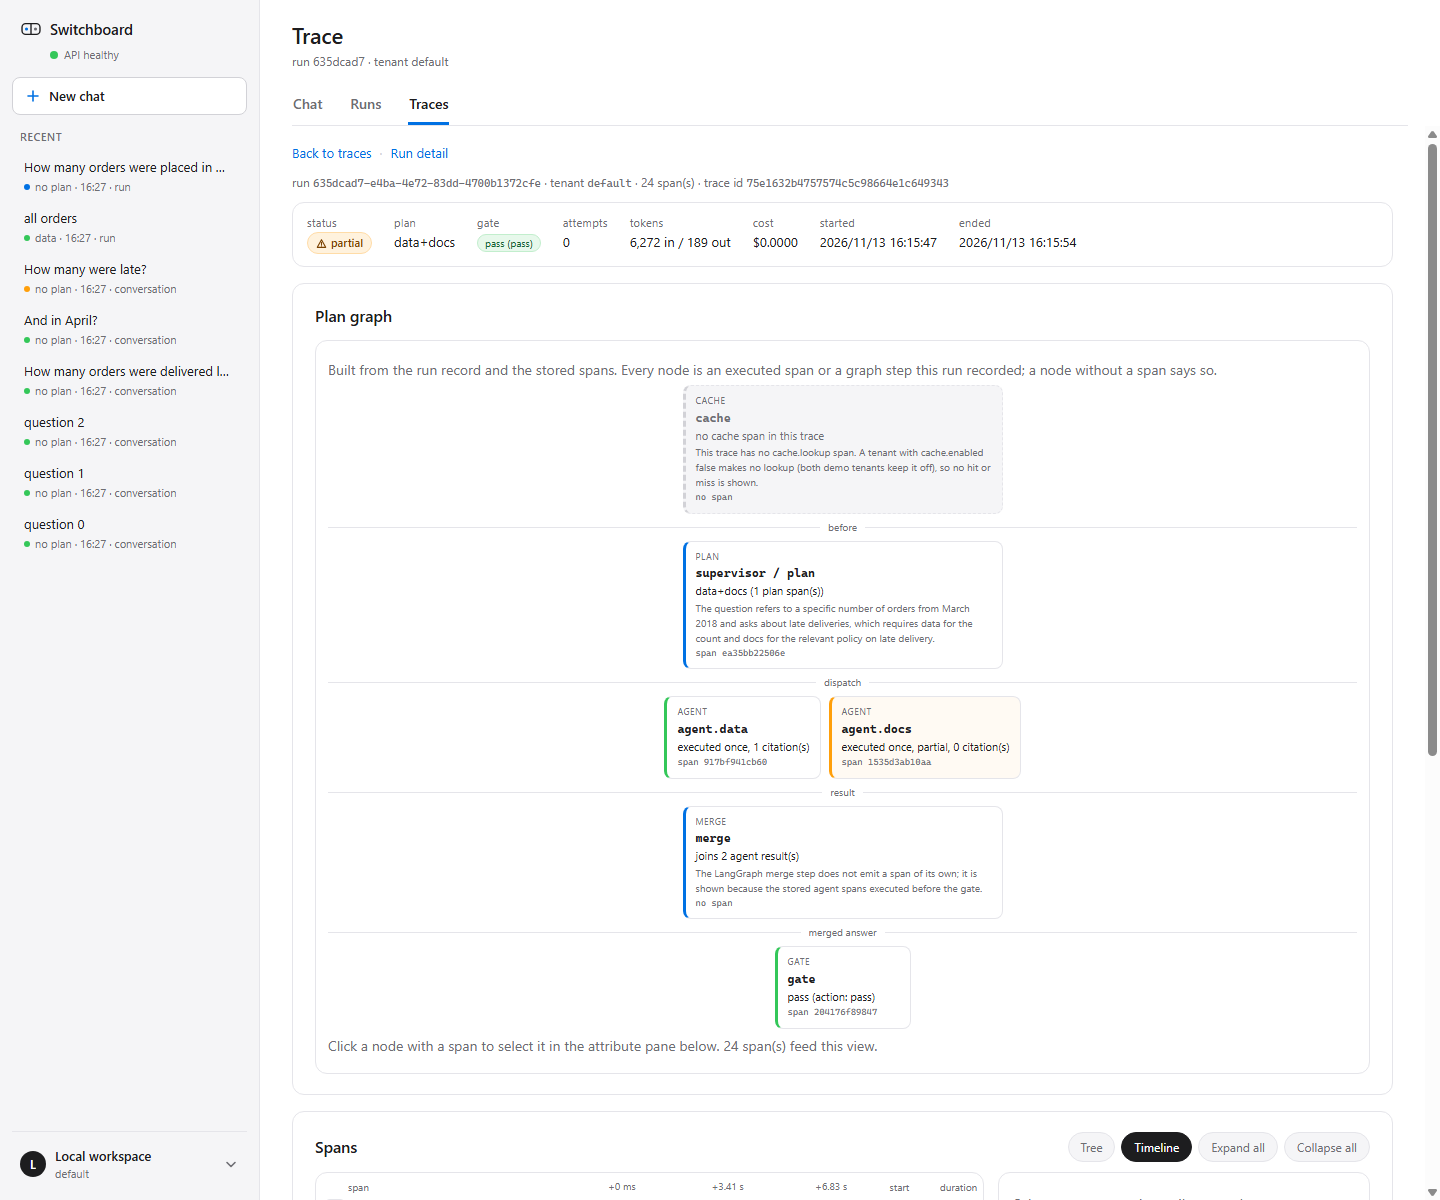
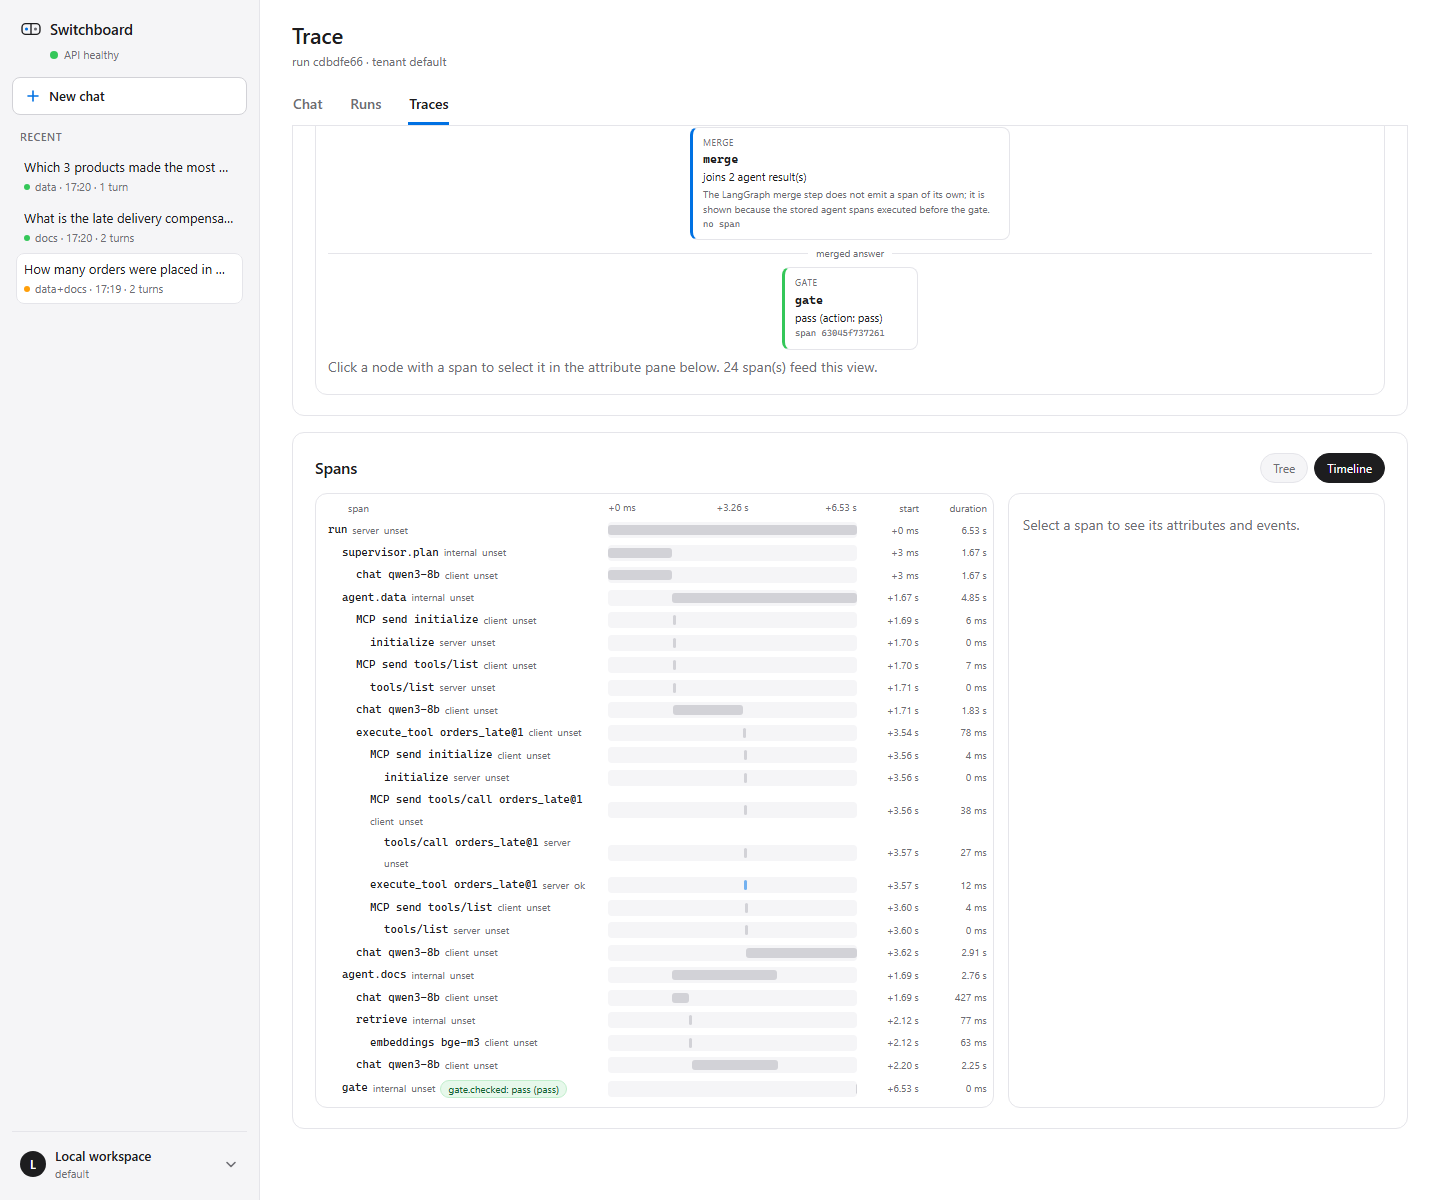
T3.03: draw a real trace tree and simplify the timeline

diff --git a/web/src/pages/TracePage.tsx b/web/src/pages/TracePage.tsx
@@ -3,6 +3,7 @@ import { useEffect, useState } from "react";
 import { errorMessage, getJson, isAbortError } from "../api";
 import type { RunSummary, SpanEvent, TraceResponse, TraceSpan } from "../api";
 import { StatusBadge } from "../components/Badges";
+import { ChevronDownIcon } from "../components/Icons";
 import { TENANTS } from "../config";
 import { formatDateTime, formatDuration, formatTokens, formatValue } from "../format";
 import { runHref, tabHref } from "../routes";
@@ -53,13 +54,29 @@ function SpanToggle({
   return (
     <button
       type="button"
-      className="toggle"
+      className={`toggle${isExpanded ? " is-open" : ""}`}
       onClick={() => onToggle(span.span_id)}
       aria-expanded={isExpanded}
       aria-label={`${isExpanded ? "Collapse" : "Expand"} ${span.name}`}
     >
-      {isExpanded ? "v" : ">"}
+      <ChevronDownIcon className="toggle-icon" />
     </button>
+  );
+}
+
+function TreeGuides({ row }: { row: FlatSpan }) {
+  if (row.depth === 0) {
+    return null;
+  }
+  const parentHasNext = row.guides[row.guides.length - 1] === true;
+  const continueLine = !row.isLast || parentHasNext;
+  return (
+    <span className="tree-guides" aria-hidden="true">
+      {row.guides.slice(0, -1).map((hasLine, index) => (
+        <span key={index} className={`tree-guide${hasLine ? " has-line" : ""}`} />
+      ))}
+      <span className={`tree-branch${continueLine ? " continue" : ""}`} />
+    </span>
   );
 }
 
@@ -78,15 +95,13 @@ function TreeRow({
   onToggle: (spanId: string) => void;
   onSelect: (spanId: string) => void;
 }) {
-  const { span, depth } = row;
+  const { span } = row;
   const barWidth =
     maxDuration > 0 ? Math.max(1, Math.round((span.duration_ms / maxDuration) * 100)) : 0;
   const markers = spanMarkers(span);
   return (
-    <div
-      className={`span-row${selectedId === span.span_id ? " selected" : ""}`}
-      style={{ paddingLeft: `${depth * 18 + 4}px` }}
-    >
+    <div className={`span-row${selectedId === span.span_id ? " selected" : ""}`}>
+      <TreeGuides row={row} />
       <SpanToggle span={span} expanded={expanded} onToggle={onToggle} />
       <button type="button" className="span-select" onClick={() => onSelect(span.span_id)}>
         <span className="span-name">{span.name}</span>
@@ -105,16 +120,12 @@ function TreeRow({
 function TimelineRow({
   row,
   window,
-  expanded,
   selectedId,
-  onToggle,
   onSelect,
 }: {
   row: FlatSpan;
   window: { start: number; total: number };
-  expanded: ReadonlySet<string>;
   selectedId: string | null;
-  onToggle: (spanId: string) => void;
   onSelect: (spanId: string) => void;
 }) {
   const { span, depth } = row;
@@ -133,7 +144,6 @@ function TimelineRow({
       className={`timeline-row${selectedId === span.span_id ? " selected" : ""}`}
     >
       <div className="timeline-label" style={{ paddingLeft: `${depth * 14 + 2}px` }}>
-        <SpanToggle span={span} expanded={expanded} onToggle={onToggle} />
         <button
           type="button"
           className="timeline-select"
@@ -717,12 +727,16 @@ export function TracePage({
                 >
                   Timeline
                 </button>
-                <button type="button" onClick={expandAll}>
-                  Expand all
-                </button>
-                <button type="button" onClick={collapseAll}>
-                  Collapse all
-                </button>
+                {activeView === "tree" ? (
+                  <>
+                    <button type="button" onClick={expandAll}>
+                      Expand all
+                    </button>
+                    <button type="button" onClick={collapseAll}>
+                      Collapse all
+                    </button>
+                  </>
+                ) : null}
               </div>
             </div>
 
@@ -774,24 +788,20 @@ export function TracePage({
                       <span className="timeline-offset">start</span>
                       <span className="timeline-duration">duration</span>
                     </div>
-                    {visibleRows.map((row) => (
+                    {allRows.map((row) => (
                       <TimelineRow
                         key={row.span.span_id}
                         row={row}
                         window={window}
-                        expanded={expanded}
                         selectedId={selectedId}
-                        onToggle={handleToggle}
                         onSelect={selectSpan}
                       />
                     ))}
                   </>
                 )}
-                {visibleRows.length < allRows.length ? (
+                {activeView === "tree" && visibleRows.length < allRows.length ? (
                   <p className="muted timeline-hint">
                     {allRows.length - visibleRows.length} span(s) are hidden by a collapsed parent.
-                    Expand a row to show them; the tree and the timeline share the same expansion
-                    state.
                   </p>
                 ) : null}
               </div>

diff --git a/web/src/styles.css b/web/src/styles.css
@@ -1911,7 +1911,7 @@ dialog::backdrop {
 
 .span-row {
   display: flex;
-  align-items: center;
+  align-items: stretch;
   gap: 2px;
   padding-top: 1px;
   padding-bottom: 1px;
@@ -1926,25 +1926,89 @@ dialog::backdrop {
 
 .toggle,
 .toggle-placeholder {
-  width: 22px;
-  min-width: 22px;
-  height: 22px;
+  width: 18px;
+  min-width: 18px;
   padding: 0;
-  font-size: 11px;
-  line-height: 1;
   background: transparent;
   color: var(--text-secondary);
-  border: 1px solid var(--border);
-  border-radius: 6px;
+  border: 0;
 }
 
 .toggle {
+  display: inline-flex;
+  align-items: center;
+  justify-content: center;
+  align-self: stretch;
+  border-radius: 4px;
   cursor: pointer;
+}
+
+.toggle:hover {
+  background: var(--hover);
+  color: var(--text);
+}
+
+.toggle-icon {
+  width: 13px;
+  height: 13px;
+  transform: rotate(-90deg);
+  transition: transform 120ms ease;
+}
+
+.toggle.is-open .toggle-icon {
+  transform: rotate(0deg);
 }
 
 .toggle-placeholder {
   display: inline-block;
-  border-color: transparent;
+  align-self: stretch;
+}
+
+/* A real tree: one column per ancestor, a vertical line while that ancestor
+   has a later sibling, and an elbow into the current row. */
+.tree-guides {
+  display: flex;
+  flex: none;
+  align-self: stretch;
+}
+
+.tree-guide,
+.tree-branch {
+  position: relative;
+  width: 18px;
+  min-width: 18px;
+  align-self: stretch;
+}
+
+.tree-guide.has-line::before {
+  position: absolute;
+  top: 0;
+  bottom: 0;
+  left: 9px;
+  border-left: 1px solid color-mix(in srgb, var(--text-secondary) 30%, var(--bg));
+  content: "";
+}
+
+.tree-branch::before {
+  position: absolute;
+  top: 0;
+  bottom: 50%;
+  left: 9px;
+  border-left: 1px solid color-mix(in srgb, var(--text-secondary) 30%, var(--bg));
+  content: "";
+}
+
+.tree-branch.continue::before {
+  bottom: 0;
+}
+
+.tree-branch::after {
+  position: absolute;
+  top: 50%;
+  right: 0;
+  left: 9px;
+  border-top: 1px solid color-mix(in srgb, var(--text-secondary) 30%, var(--bg));
+  content: "";
 }
 
 .span-select {

diff --git a/web/src/trace.ts b/web/src/trace.ts
@@ -10,6 +10,12 @@ import type { RunSummary, TraceSpan } from "./api";
 export interface FlatSpan {
   span: TraceSpan;
   depth: number;
+  // True when this span is the last child of its parent. The tree draws a
+  // corner instead of a continuing branch for it.
+  isLast: boolean;
+  // One entry per ancestor level: true when that ancestor has a later sibling,
+  // so the connector line must continue through this row.
+  guides: readonly boolean[];
 }
 
 export interface TraceWindow {
@@ -82,13 +88,14 @@ function text(value: unknown): string | null {
 
 export function flattenSpanTree(spans: TraceSpan[]): FlatSpan[] {
   const rows: FlatSpan[] = [];
-  const walk = (nodes: TraceSpan[], depth: number) => {
-    for (const node of nodes) {
-      rows.push({ span: node, depth });
-      walk(node.children, depth + 1);
-    }
+  const walk = (nodes: TraceSpan[], depth: number, guides: boolean[]) => {
+    nodes.forEach((node, index) => {
+      const isLast = index === nodes.length - 1;
+      rows.push({ span: node, depth, isLast, guides });
+      walk(node.children, depth + 1, [...guides, !isLast]);
+    });
   };
-  walk(spans, 0);
+  walk(spans, 0, []);
   return rows;
 }
 
@@ -99,15 +106,16 @@ export function visibleSpanRows(
   expanded: ReadonlySet<string>,
 ): FlatSpan[] {
   const rows: FlatSpan[] = [];
-  const walk = (nodes: TraceSpan[], depth: number) => {
-    for (const node of nodes) {
-      rows.push({ span: node, depth });
+  const walk = (nodes: TraceSpan[], depth: number, guides: boolean[]) => {
+    nodes.forEach((node, index) => {
+      const isLast = index === nodes.length - 1;
+      rows.push({ span: node, depth, isLast, guides });
       if (node.children.length > 0 && expanded.has(node.span_id)) {
-        walk(node.children, depth + 1);
+        walk(node.children, depth + 1, [...guides, !isLast]);
       }
-    }
+    });
   };
-  walk(spans, 0);
+  walk(spans, 0, []);
   return rows;
 }
 

diff --git a/docs/spec/progress.md b/docs/spec/progress.md
@@ -54,4 +54,4 @@ One line per task. Status is `todo`, `doing`, `blocked` (say on what), `deferred
 
 | Task | Status | Commit | Notes |
 | --- | --- | --- | --- |
-| T3.03 | done | d9ab68c | Visual design pass on main. Backend: `GET /settings?tenant_id=` returns a read-only JSON snapshot built once in `build_app_deps` from `Settings`, the agent entry points and the tool manifests (platform choices and limits, tenant allowlists, seller scope, retrieval and cache, provider name/model/capabilities/price, tool and agent specs with `allowed`); no API key, base URL, database URL or token secret, unknown tenant 404 and a missing snapshot 503. `GET /runs` gained an optional `session_id` filter applied in SQL with the tenant, so the chat page rebuilds a stored conversation from run rows. 8 settings tests plus a session-filter test; 650 unit and contract tests pass with 47 integration skips outside env, and 33 integration tests pass with 2 skips (Jaeger absent, record switch) with `.env`. Web: app shell with a 260 px sidebar (72 px rail at 1024 to 1279, native-dialog drawer under 1024), title row and a Chat/Runs/Traces tab bar scoped to the current conversation, top-level `#/traces`, chat transcript with compact run summary (gate shows "not recorded" for stored runs because the run row does not persist it), restyled runs table with a container-driven stacked layout, native settings dialog with 7 sections (Retrieval & Cache split into Retrieval and Cache to reach seven), inline SVG icons, no new npm dependency. `npm run build`: index 0.39 kB, CSS 31.56 kB (6.50 gzip), JS 303.94 kB (89.70 gzip), up from T2.14's CSS 10.89 kB and JS 265.07 kB. 20 screenshots `docs/ui-{chat,runs,traces,run-detail,trace,trace-timeline,settings}-{1440,768,375}.png` plus `ui-rail-1100.png`, taken with headless Chrome on live run 635dcad7-e4ba-4e72-83dd-4700b1372cfe (24 spans) and session `ui-demo-2026-11-13`. Checks: 375 has no horizontal scroll (document and main scrollWidth 375), the runs table is stacked with `data-label` headers, the dialog has 7 tabs, Escape closes it and focus returns to the Settings menu item at 1440 or to the menu button under 1024, ArrowRight on the tab bar selects Traces, and an Enter keydown while `isComposing` does not submit. `docs/ui.md` holds the tokens, layout, breakpoints, component rules, accessibility checklist and the 375/768/1440 checks. Post-review fixes: the settings section row wraps at 375 instead of scrolling, and a corrected gate error on an ok run collapses under a disclosure instead of a full red box. Follow-up after author review: the three tabs are scoped to the current conversation and every tab href carries its `session`, so switching Chat to Runs or Traces and back keeps the same transcript; Runs and Traces call `GET /runs?session_id=`, and the tenant filter was removed because switching tenant starts a new conversation; the settings dialog is a fixed 1000 by 760 desktop dialog and viewport-filling on a phone, so changing sections does not resize it. The sidebar now reads `GET /sessions`, one row per chat grouped by `session_id` (first question as title, latest plan and time, run count), instead of one row per run; sessionless runs are excluded. Chat answers render a safe local Markdown subset (paragraphs, ordered/unordered lists, bold/italic, inline and fenced code, http links) with no new dependency; raw HTML stays text. The feedback form was removed from the chat transcript and remains on the run detail. `npm run build`: CSS 32.58 kB (6.69 gzip), JS 307.15 kB (90.84 gzip); screenshots refreshed, and a live check showed 3 conversation rows, clicking one opened its stored turns, the same session in all tab URLs, a 3-item rendered product list with no raw `**`, no chat feedback text, and a 1000 by 760 dialog on both Account and Model. ruff, format, mypy and both eval gates untouched; CI runs on the pushed branch |
+| T3.03 | done | d9ab68c | Visual design pass on main. Backend: `GET /settings?tenant_id=` returns a read-only JSON snapshot built once in `build_app_deps` from `Settings`, the agent entry points and the tool manifests (platform choices and limits, tenant allowlists, seller scope, retrieval and cache, provider name/model/capabilities/price, tool and agent specs with `allowed`); no API key, base URL, database URL or token secret, unknown tenant 404 and a missing snapshot 503. `GET /runs` gained an optional `session_id` filter applied in SQL with the tenant, so the chat page rebuilds a stored conversation from run rows. 8 settings tests plus a session-filter test; 650 unit and contract tests pass with 47 integration skips outside env, and 33 integration tests pass with 2 skips (Jaeger absent, record switch) with `.env`. Web: app shell with a 260 px sidebar (72 px rail at 1024 to 1279, native-dialog drawer under 1024), title row and a Chat/Runs/Traces tab bar scoped to the current conversation, top-level `#/traces`, chat transcript with compact run summary (gate shows "not recorded" for stored runs because the run row does not persist it), restyled runs table with a container-driven stacked layout, native settings dialog with 7 sections (Retrieval & Cache split into Retrieval and Cache to reach seven), inline SVG icons, no new npm dependency. `npm run build`: index 0.39 kB, CSS 31.56 kB (6.50 gzip), JS 303.94 kB (89.70 gzip), up from T2.14's CSS 10.89 kB and JS 265.07 kB. 21 screenshots under `docs/ui-*.png` (including `ui-trace-tree-1440.png` and `ui-trace-timeline-1440.png`, plus `ui-rail-1100.png`), taken with headless Chrome on live run cdbdfe66-cd95-47b9-9d99-c2117b7cae19 (24 spans) and session `demo-orders`. Checks: 375 has no horizontal scroll (document and main scrollWidth 375), the runs table is stacked with `data-label` headers, the dialog has 7 tabs, Escape closes it and focus returns to the Settings menu item at 1440 or to the menu button under 1024, ArrowRight on the tab bar selects Traces, and an Enter keydown while `isComposing` does not submit. `docs/ui.md` holds the tokens, layout, breakpoints, component rules, accessibility checklist and the 375/768/1440 checks. Post-review fixes: the settings section row wraps at 375 instead of scrolling, and a corrected gate error on an ok run collapses under a disclosure instead of a full red box. Follow-up after author review: the three tabs are scoped to the current conversation and every tab href carries its `session`, so switching Chat to Runs or Traces and back keeps the same transcript; Runs and Traces call `GET /runs?session_id=`, and the tenant filter was removed because switching tenant starts a new conversation; the settings dialog is a fixed 1000 by 760 desktop dialog and viewport-filling on a phone, so changing sections does not resize it. The sidebar now reads `GET /sessions`, one row per chat grouped by `session_id` (first question as title, latest plan and time, run count), instead of one row per run; sessionless runs are excluded. Chat answers render a safe local Markdown subset (paragraphs, ordered/unordered lists, bold/italic, inline and fenced code, http links) with no new dependency; raw HTML stays text. The feedback form was removed from the chat transcript and remains on the run detail. The trace tree now draws per-ancestor connector lines and a last-child corner, with a small SVG chevron only on expandable rows; the timeline has no per-row toggles and shows every span, and Expand all/Collapse all appear only in Tree. `npm run build`: CSS 33.43 kB (6.83 gzip), JS 307.52 kB (91.00 gzip); screenshots refreshed, and a live check showed 3 conversation rows, clicking one opened its stored turns, the same session in all tab URLs, a 3-item rendered product list with no raw `**`, no chat feedback text, 11 tree chevrons with 23 connectors, zero timeline toggles, and a 1000 by 760 dialog on both Account and Model. ruff, format, mypy and both eval gates untouched; CI runs on the pushed branch |

diff --git a/docs/ui.md b/docs/ui.md
@@ -46,7 +46,7 @@ The shell is a two-column grid at `100dvh`: `<aside class="sidebar">` and a scro
 - **Drawer (under 1024 px).** A native `<dialog>` holding the full sidebar; opened from the menu button in the title row. The browser provides focus containment, Escape and focus return; a light backdrop click closes it, with a pointer-position fallback where `closedby` is missing.
 - **Chat.** The transcript scrolls; the composer is pinned to the bottom of the view. Above the composer sits one compact run summary bar for the latest turn (plan, status, latency, tokens, cost, gate, cache). The bar's `Steps (n)` disclosure expands the live step list inline. There is no right inspector column; a citation chip opens the trace page at the cited span.
 - **Runs.** The runs of the current conversation, with status and plan filters and a refresh button, then a semantic table with a row header, sticky column headers and row links. The tenant is fixed for the session; switching tenant starts a new conversation.
-- **Traces.** The traces of the current conversation, one per run, with plan, status, latency, cache and trace completeness; opening one keeps the existing trace page with Timeline, Tree, Expand all, Collapse all and the plan graph.
+- **Traces.** The traces of the current conversation, one per run, with plan, status, latency, cache and trace completeness; opening one keeps the existing trace page with Timeline, Tree, Expand all, Collapse all and the plan graph. The tree draws connector lines for each ancestor and a corner for the last child, with a small chevron only on rows that have children. The timeline has no per-row toggles and shows every span; Expand all and Collapse all appear only in Tree.
 - **Run detail and trace detail.** Their own header information plus a back link; the global tabs above stay in place and no page repeats them.
 - **Settings.** A native modal `<dialog>` opened from the profile menu: a read-only notice, a vertical section sub-nav (Account, General, Model, Tools & MCP, Agents, Retrieval, Cache) and read-only cards on the right. The dialog keeps a fixed 1000 by 760 desktop size (and a fixed viewport-filling size on a phone) so changing sections does not resize the window; the content column scrolls inside it. Closing is by the close button, Escape or a backdrop click, and focus returns to the menu item that opened it.
 
@@ -116,7 +116,8 @@ Manual checks, at 1440x1200, 768x1200 and 375x900 (Chrome device emulation or a 
 6. **1440 wide, shell.** The 260 px sidebar, independent recent-list scroll, title row and tabs are all visible, and the transcript is capped at 860 px.
 7. **Keyboard only.** Tab reaches the skip link, the sidebar, the tabs, the page content, the composer and the send button in that order; the tab bar is one stop and the arrow keys move between tabs; the profile menu opens with Enter and closes with Escape.
 8. **Status.** Force a status (`partial`, `needs_clarification` or an error) and confirm the glyph and the label change, not only the colour.
-9. **Read-only settings.** The dialog shows values from `GET /settings`; stopping the API and reopening it shows the error box and no values.
+9. **Trace tree and timeline.** Tree rows are connected by visible guide lines, only expandable rows show a chevron, and the timeline has no toggles or Expand/Collapse buttons.
+10. **Read-only settings.** The dialog shows values from `GET /settings`; stopping the API and reopening it shows the error box and no values.
 
 Screenshots of these checks are committed under `docs/` with the run and viewport in the name, and progress.md records them.
 
